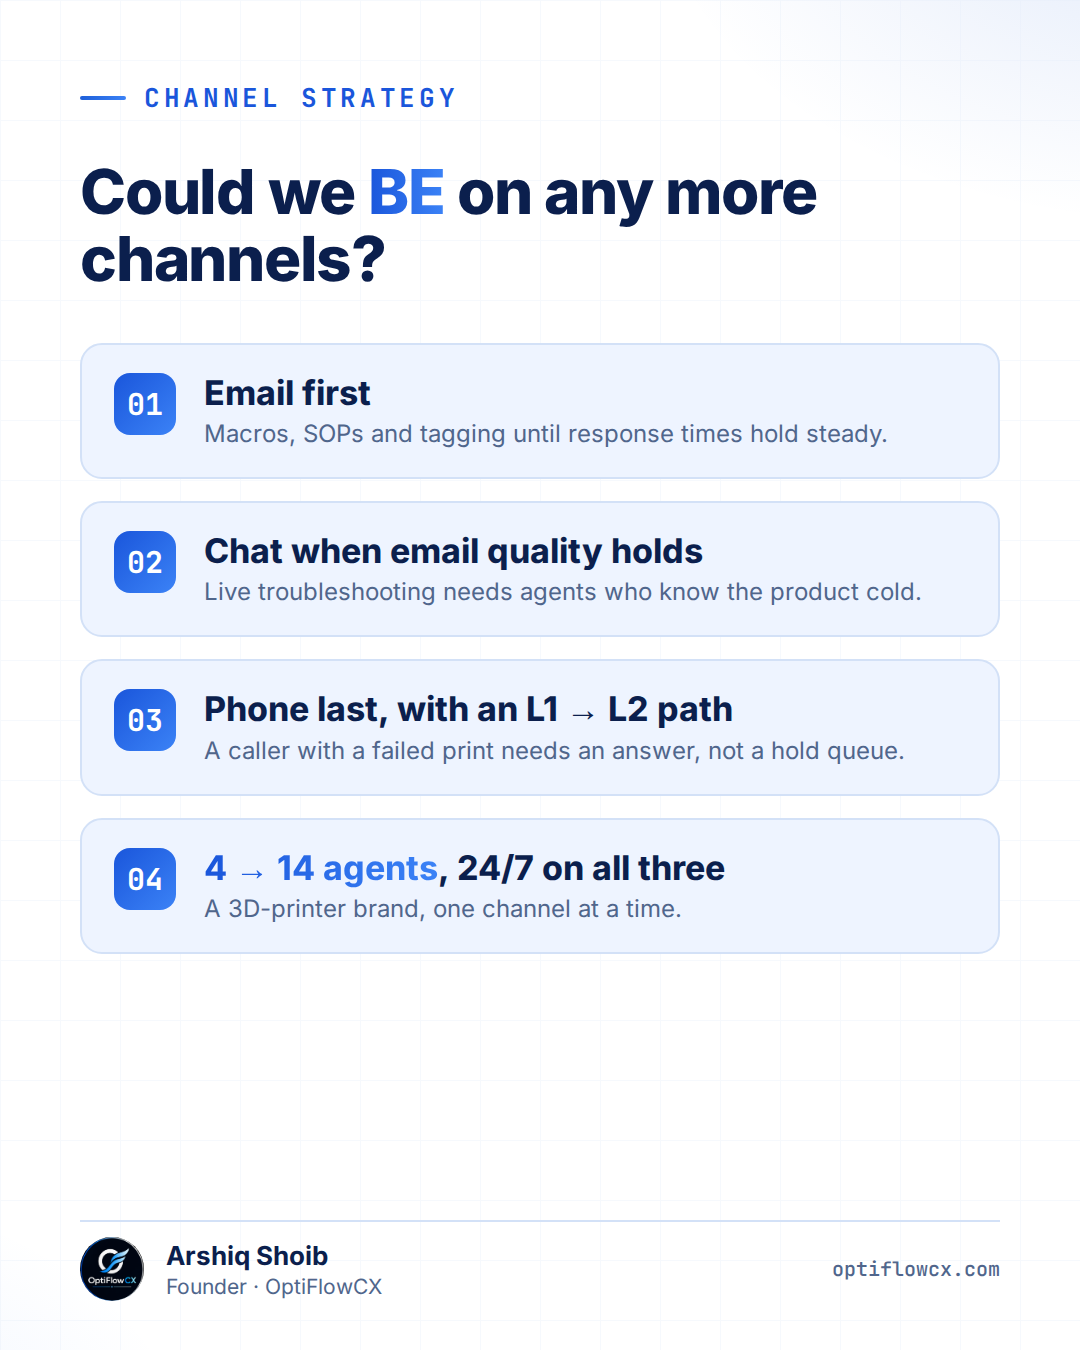
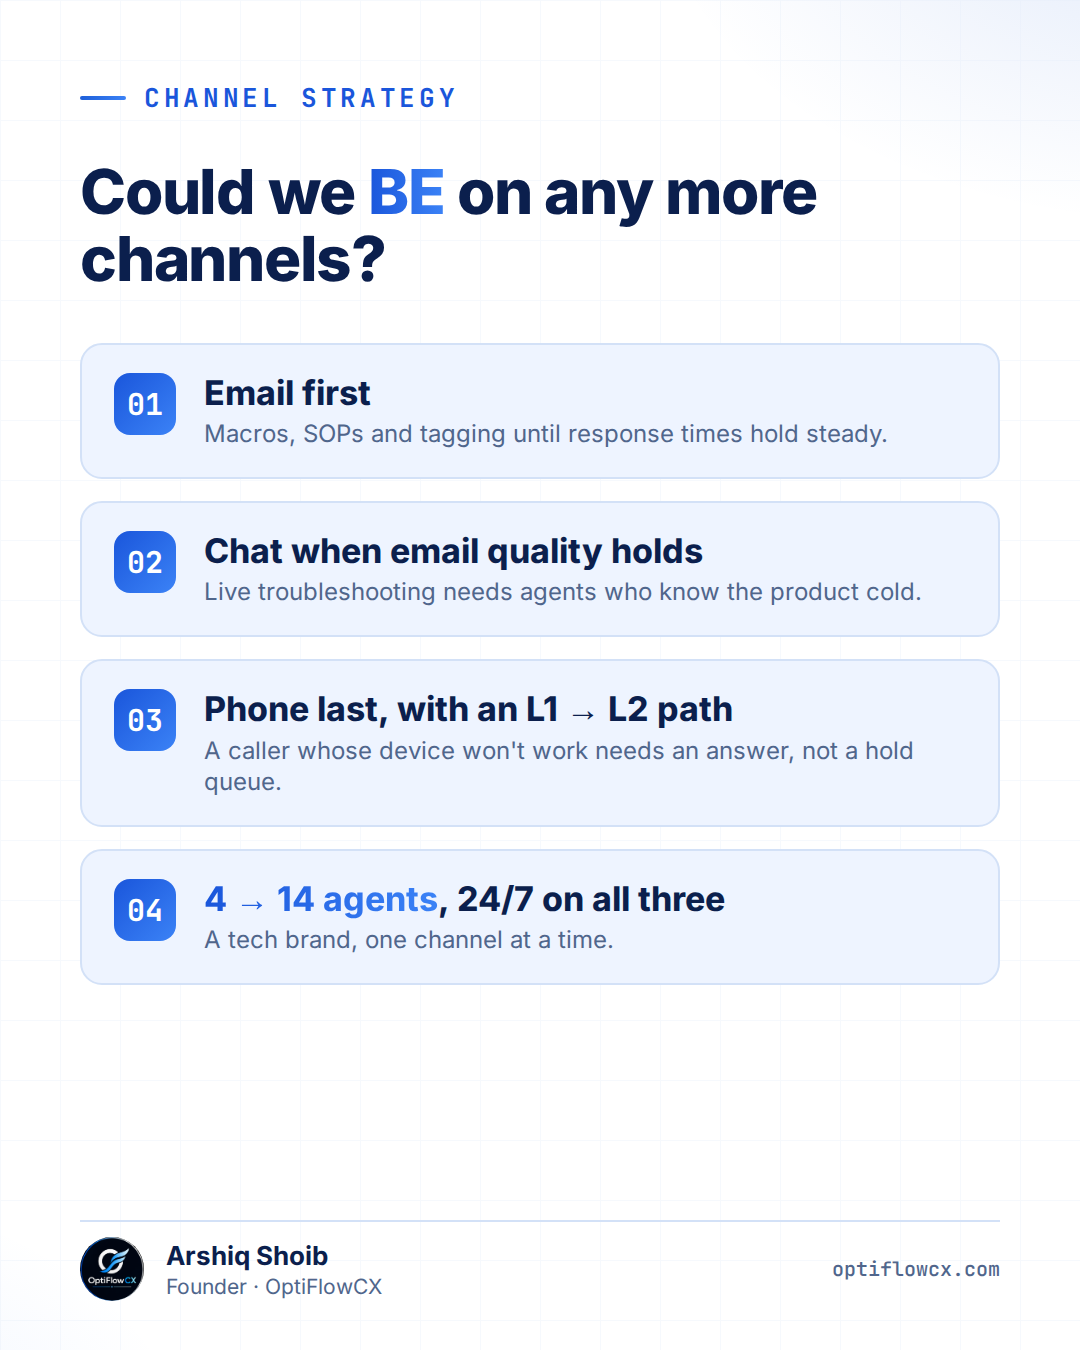
Day 4 founder post: refer to a tech brand instead of a 3D-printer brand
Claude-Session: https://claude.ai/code/session_01KEqnPj1WwLQMN4o1YkEWT9

Changed region(s): [[0.0917, 0.6222, 0.6722, 0.7156], [0.3056, 0.5289, 0.8556, 0.5911], [0.1833, 0.56, 0.275, 0.5911]]

diff --git a/content/preview.html b/content/preview.html
@@ -309,7 +309,7 @@ Hardware founders: when do your hardest tickets actually come in?
       <span class="slot">08:15 ET · 17:15 PKT</span>
       <span class="status approved">approved</span>
     </div>
-    <p class="ref"><b>Pop-culture lesson / case study</b> · Hardware &amp; consumer tech (applies to DTC too)<br><span>Friends: 'The One Where No One's Ready' (S3E2), Joey wearing all of Chandler's clothes: 'Could I BE wearing any more clothes?'</span></p>
+    <p class="ref"><b>Pop-culture lesson / case study</b> · Tech &amp; consumer brands (applies to DTC too)<br><span>Friends: 'The One Where No One's Ready' (S3E2), Joey wearing all of Chandler's clothes: 'Could I BE wearing any more clothes?'</span></p>
     <pre id="t-2026-10-01-am">Could we BE on any more channels?
 
 Joey said it best, doing his Chandler impression while wearing every piece of Chandler's clothing at once. Piling everything on doesn't make you better prepared. It just makes it harder to move.
@@ -318,10 +318,10 @@ A lot of brands launch support the same way. Email, live chat, phone, WhatsApp, 
 
 The result is slow email, a chat widget nobody's watching, and a phone line that goes to voicemail.
 
-For a 3D-printer brand we support, we did the opposite:
+For a tech brand we support, we did the opposite:
 → Email first. Macros, SOPs and a tagging system until response times were steady.
 → Chat next, once email quality held. Live troubleshooting needs agents who already know the product inside out.
-→ Phone last, with a clear L1 → L2 path, because a frustrated caller with a failed print needs an answer, not a hold queue.
+→ Phone last, with a clear L1 → L2 path, because a frustrated caller whose device won't work needs an answer, not a hold queue.
 
 The team grew from 4 to 14 people, and support now runs 24/7 across all three channels.
 
@@ -329,11 +329,11 @@ Add a channel when you can run it well, not just because the tool lets you switc
 
 Which channel did you open too early?
 
-#CustomerSupport #CustomerExperience #Hardware #Friends #Startups</pre>
+#CustomerSupport #CustomerExperience #TechStartups #Friends #Startups</pre>
     <div class="actions">
       <button type="button" data-copy="t-2026-10-01-am">Copy post</button>
       <button type="button" class="ghost" data-copy="c-2026-10-01-am">Copy first comment</button>
-      <span class="chars">1155 / 3,000 chars</span>
+      <span class="chars">1157 / 3,000 chars</span>
     </div>
     <p class="comment"><span>First comment</span><span id="c-2026-10-01-am">The full journey (email → chat → phone, 4 → 14 people): optiflowcx.com/portfolio</span></p>
   </div>
